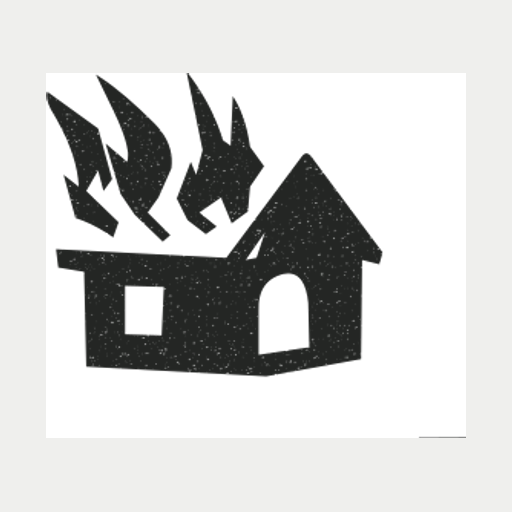
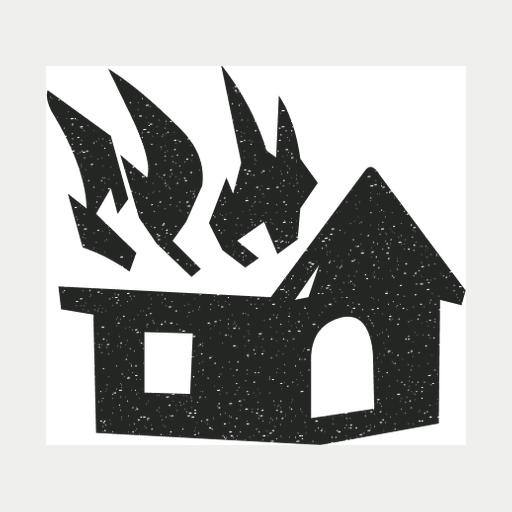
Use the supplied The Den emblem and wordmark throughout the application

Changed region(s): [[0.0938, 0.125, 0.9062, 0.875]]

diff --git a/src/app/page.jsx b/src/app/page.jsx
@@ -18,7 +18,7 @@ export default async function Opening({ searchParams }) {
   <img className={styles.houseFlames} src="/brand/the-den-house.png" alt="" />
   <span className={styles.inkSweep} aria-hidden="true" /><span className={styles.steam} aria-hidden="true" />
 </a>
-      <h1 className={styles.wordmark}><img src="/den-2.svg" alt="The Den" width="300" height="75"/></h1>
+      <h1 className={styles.wordmark}><img src="/brand/the-den-wordmark.png" alt="The Den" width="300" height="52"/></h1>
       {error && (
         <p role="alert">
           {error} <a href="/profil">Profil</a>
@@ -27,6 +27,7 @@ export default async function Opening({ searchParams }) {
     </main>
   );
 }
+
 
 
 

diff --git a/src/TheDen.jsx b/src/TheDen.jsx
@@ -103,7 +103,7 @@ export default function TheDen() {
     >
       <aside className="rail">
         <a href="/" aria-label="DIMENSION · Accueil">
-          <img className="logo" src="/den-2.svg" alt="The Den" />
+          <img className="logo" src="/brand/the-den-wordmark.png" alt="The Den" />
         </a>
         <nav aria-label="Navigation principale">
           {sections.map((name, i) => (
@@ -339,3 +339,4 @@ export default function TheDen() {
     </div>
   );
 }
+

diff --git a/src/app/loading.jsx b/src/app/loading.jsx
@@ -4,10 +4,11 @@ export default function Loading() {
     <main className={styles.entry} role="status" aria-label="Allumage">
       <img
         className={styles.signature}
-        src="/brand/the-den-opening.svg"
+        src="/brand/the-den-house.png"
         alt="The Den"
       />
       <progress className={styles.charge} aria-label="Chargement" />
     </main>
   );
 }
+

diff --git a/src/app/opening.module.css b/src/app/opening.module.css
@@ -272,3 +272,4 @@
   .entry a.signature { transition: none; }
   .entry a.signature:hover, .entry a.signature:active { transform: none; }
 }
+.wordmark img{display:block;width:min(300px,72vw);height:auto}
